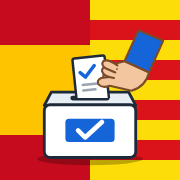
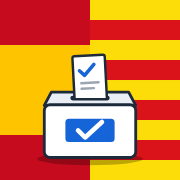
Icono sin la mano: papeleta entrando en la urna con las banderas de fondo
Claude-Session: https://claude.ai/code/session_01KsvpZgxcXGQkymgtvfv7fq

Changed region(s): [[0.3889, 0.1667, 0.9167, 0.5556]]

diff --git a/actas-escrutinio/public/sw.js b/actas-escrutinio/public/sw.js
@@ -1,5 +1,5 @@
 // Guarda la app en el móvil para que abra aunque no haya cobertura.
-const CACHE = 'actas-v11';
+const CACHE = 'actas-v12';
 const FILES = ['/', '/index.html', '/app.js', '/styles.css', '/icon.svg', '/icon-192.png', '/apple-touch-icon.png', '/manifest.webmanifest'];
 self.addEventListener('install', (e) => { e.waitUntil(caches.open(CACHE).then((c) => c.addAll(FILES))); self.skipWaiting(); });
 self.addEventListener('activate', (e) => {
